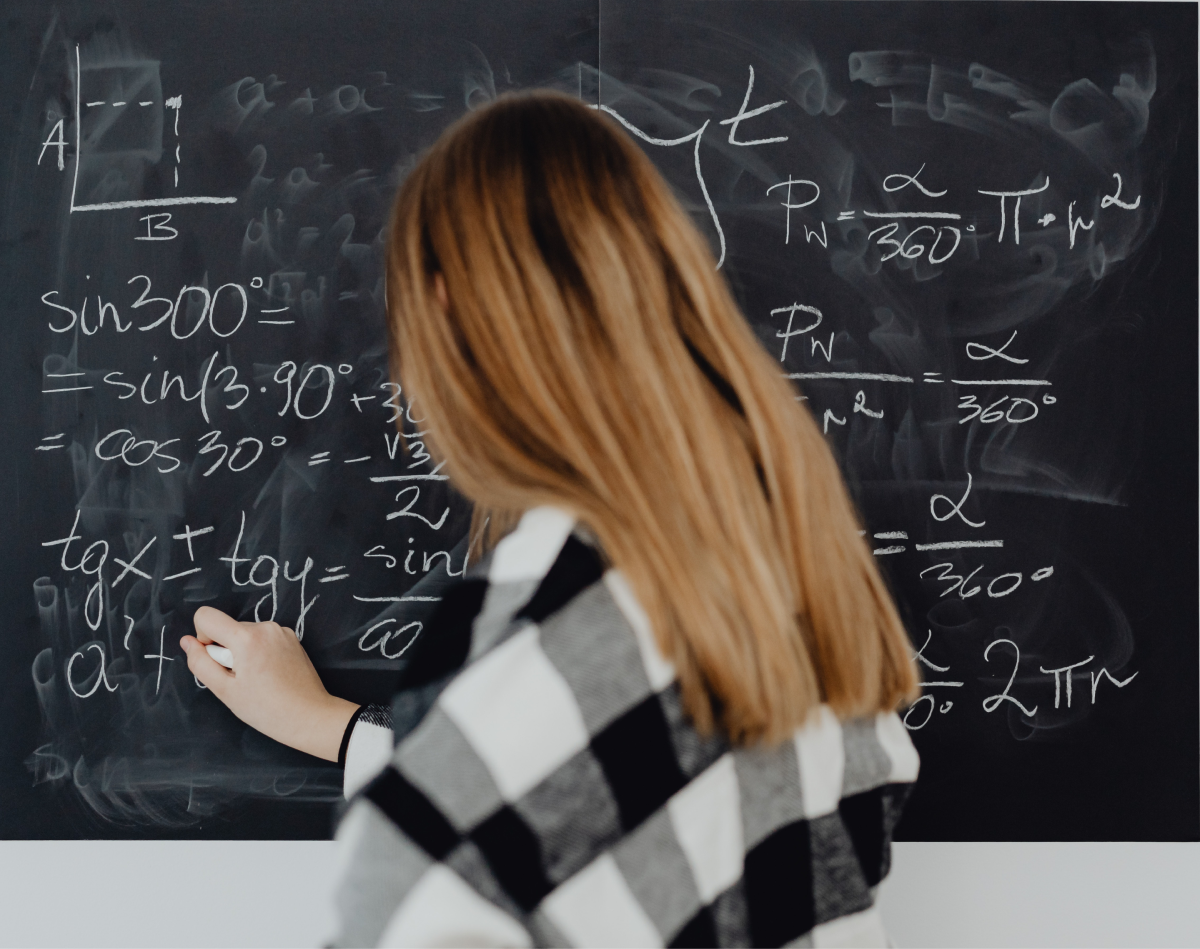
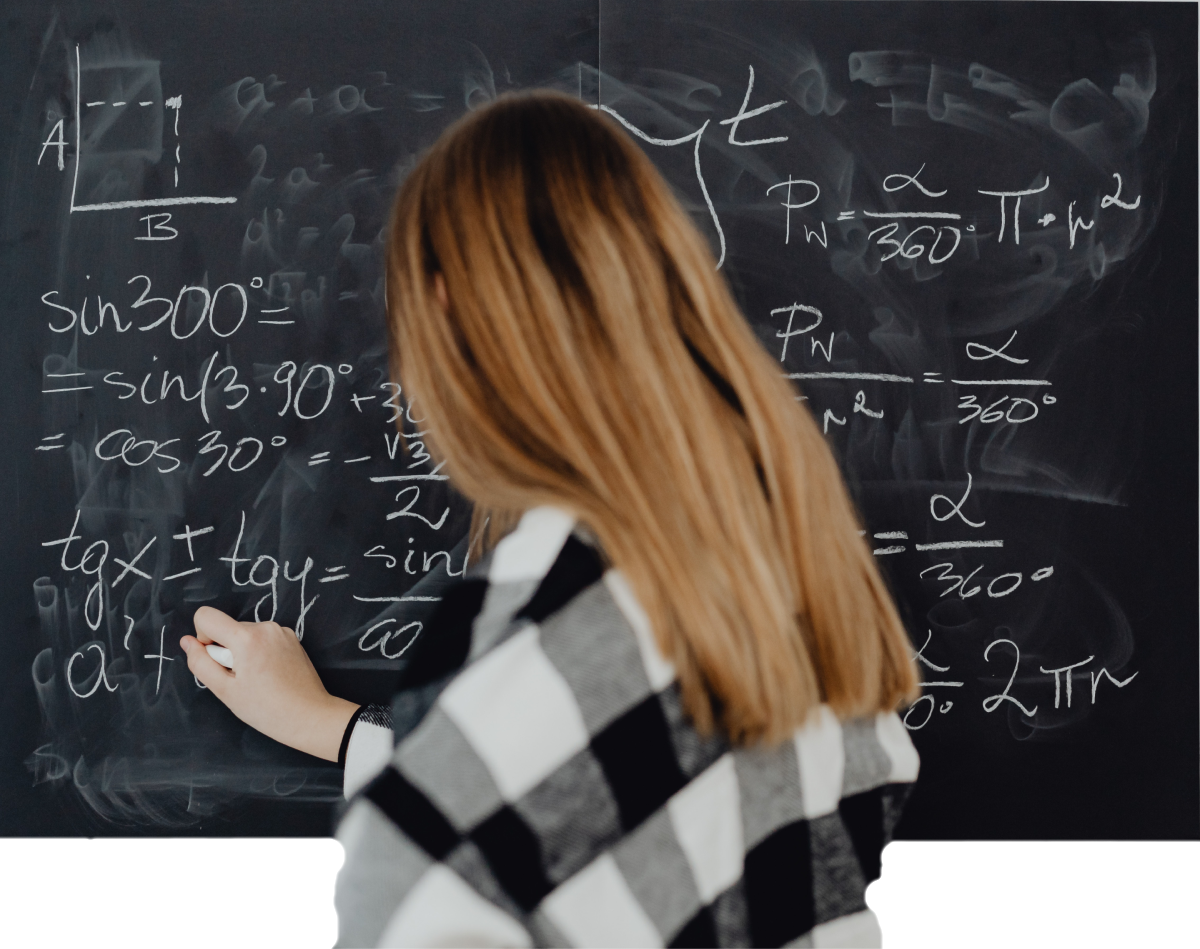
feat: [FE] update HeroSection component with new design and responsive layout

Changed region(s): [[0.0, 0.8556, 0.3083, 1.0], [0.7092, 0.8862, 1.0, 1.0]]

diff --git a/frontend/app/_components/LandingSection/HeroSection.tsx b/frontend/app/_components/LandingSection/HeroSection.tsx
@@ -3,7 +3,6 @@
 import { CONTACT_SECTION_LINK } from "@/app/_constants/constants";
 import { useRouter } from "next/navigation";
 import { useRef } from 'react';
-import { useMediaQuery } from "usehooks-ts";
 import ReactiveButton from "../Button/ReactiveButton";
 
 interface HeroSectionProps {
@@ -18,7 +17,6 @@ const BgCircle = ({styleClass, position}: {styleClass: string, position: "left" 
 
 const HeroSection = ({ title, subtitle, type }: HeroSectionProps) => {
   const router = useRouter();
-  const isMobile = useMediaQuery("(max-width: 768px)");
 
   const sectionRef = useRef<HTMLElement>(null);
 
@@ -76,14 +74,14 @@ const HeroSection = ({ title, subtitle, type }: HeroSectionProps) => {
     },
     yorisu: {
       bgCircles: {
-        left: "from-[rgba(97,180,141,1)] to-[rgba(97,180,141,0.7)]",
-        right: "from-[rgba(116,181,65,1)] to-[rgba(116,180,65,0.5)]",
+        left: "from-[rgba(225,220,96,0.5)] to-[rgba(239,194,35,1)]",
+        right: "from-[#FBEF84] to-[#EFC223]",
       },
-      title: "text-green-2",
-      imgPath: "",
+      title: "text-yellow-5",
+      imgPath: "/images/child-play-study.png",
       buttons: {
-        primary: "text-white bg-green-1",
-        secondary: "text-green-2 bg-green-4",
+        primary: "text-white bg-yellow-5",
+        secondary: "text-[#A48104] bg-yellow-4",
       }
     },
     sigma: {
@@ -92,7 +90,7 @@ const HeroSection = ({ title, subtitle, type }: HeroSectionProps) => {
         right: "from-[rgba(116,181,65,1)] to-[rgba(116,180,65,0.5)]",
       },
       title: "text-green-2",
-      imgPath: "",
+      imgPath: "/images/chalkboard-math.png",
       buttons: {
         primary: "text-white bg-green-1",
         secondary: "text-green-2 bg-green-4",
@@ -109,9 +107,9 @@ const HeroSection = ({ title, subtitle, type }: HeroSectionProps) => {
       <div className="absolute top-0 left-0 w-full h-full bg-white bg-opacity-30 backdrop-blur-[160px]"></div>
     </div>
     <div className="flex justify-center items-center w-full h-full absolute top-0 left-0 NanumSquare">
-      <div className="2xl:w-[80rem] xl:w-[72rem] lg:w-[56rem] md:w-[48rem] sm:w-[36rem] w-full min-w-[300px] px-5 h-full flex lg:flex-row flex-col-reverse items-center justify-center lg:justify-between gap-10 lg:gap-0 pt-0 md:pt-20 lg:pt-0">
-        <div>
-          <div className="text-[#555] text-xl md:text-2xl xl:text-3xl font-bold mb-2.5">
+      <div className={`2xl:w-[80rem] xl:w-[72rem] lg:w-[56rem] md:w-[48rem] sm:w-[36rem] w-full min-w-[300px] px-5 h-full flex ${(type === "elementary" || type === "middle") ? "lg:flex-row" : "lg:flex-row-reverse"} flex-col-reverse items-center justify-center lg:justify-between gap-10 lg:gap-20 pt-0 md:pt-20 lg:pt-0`}>
+        <div className="lg:flex-1">
+          <div className="text-[#070606] text-xl md:text-2xl xl:text-3xl font-bold mb-2.5">
             {subtitle}
           </div>
           <div className={`${ElementsByType[type].title} text-[40px] md:text-[50px] xl:text-[60px] font-extrabold NanumSquare`}>
@@ -128,11 +126,18 @@ const HeroSection = ({ title, subtitle, type }: HeroSectionProps) => {
             })}
           </div>
         </div>
-        <div className={`xl:w-[380px] xl:h-[380px] md:w-[320px] md:h-[320px] w-[280px] h-[280px] relative rounded-full bg-gradient-to-b shadow-xl ${type == 'elementary' ? 'from-yellow-1 to-yellow-3' : 'from-green-1 to-green-2'}`}>
-          <div className='absolute bottom-0 w-full flex justify-center rounded-bl-full rounded-br-full overflow-hidden'>
-            <img src={ElementsByType[type].imgPath} alt='curriculum' className={`${type == 'elementary' ? 'w-[64%]' : 'w-full'}`}/>
+        {(type === "elementary" || type === "middle") ?
+          <div className={`xl:w-[380px] xl:h-[380px] md:w-[320px] md:h-[320px] w-[280px] h-[280px] relative rounded-full bg-gradient-to-b shadow-xl ${type == 'elementary' ? 'from-yellow-1 to-yellow-3' : 'from-green-1 to-green-2'}`}>
+            <div className='absolute bottom-0 w-full flex justify-center rounded-b-full overflow-hidden'>
+              <img src={ElementsByType[type].imgPath} alt='curriculum' className={`${type == 'elementary' ? 'w-[64%]' : 'w-full'}`}/>
+            </div>
+          </div> :
+          <div className={`xl:w-[380px] xl:h-[360px] md:w-[320px] md:h-[300px] w-[280px] h-[260px] relative bg-gradient-to-br rounded-t-full shadow-xl overflow-hidden ${type == 'yorisu' ? 'from-yellow-4 to-yellow-2' : 'from-green-4 to-green-2'}`}>
+            <div className="absolute bottom-0 w-full h-full flex justify-center items-end">
+              <img src={ElementsByType[type].imgPath} alt='curriculum' className={`${type == 'yorisu' ? 'h-3/4' : 'h-2/3'} object-cover`}/>
+            </div>
           </div>
-        </div>
+        } 
       </div>
     </div>
   </section>;
